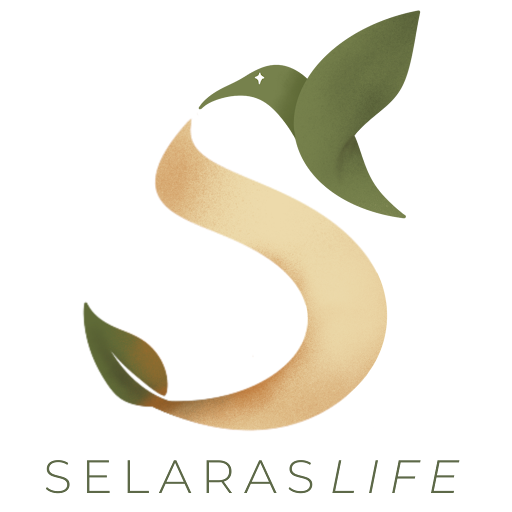
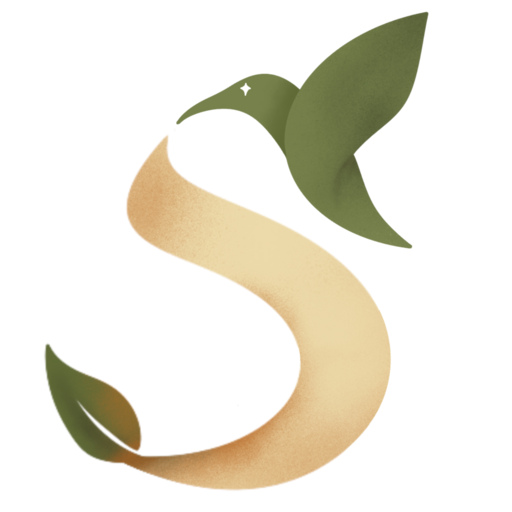
Perbarui header beranda, bar navigasi publik, dan ikon aplikasi
- Header publik: hanya logo Selaras dan tautan Masuk
- Hapus blok "Mulai Perjalanan" dan "Sudah punya akun?" dari bar bawah publik
- Ganti favicon dan ikon PWA dengan favicon baru

diff --git a/src/components/site-header.tsx b/src/components/site-header.tsx
@@ -1,47 +1,28 @@
 import Image from "next/image";
 import Link from "next/link";
-import { Icon } from "./icon";
 
 export function SiteHeader() {
   return (
     <header className="pt-safe fixed top-0 left-1/2 z-50 w-full max-w-[480px] -translate-x-1/2 bg-surface/85 shadow-[0_1px_8px_rgba(92,75,62,0.04)] backdrop-blur-xl">
       <div className="flex h-16 items-center justify-between px-margin">
-        <Link href="/" className="flex items-center gap-2">
-          <span className="flex size-9 items-center justify-center overflow-hidden rounded-full bg-sage-tint">
-            <Image
-              src="/images/logo-avatar.png"
-              alt=""
-              width={32}
-              height={32}
-              className="size-8 rounded-full object-cover"
-              priority
-            />
-          </span>
-          <span className="flex items-center gap-1.5">
-            <span className="t-title-md font-semibold tracking-tight text-on-surface">
-              Selaras Life
-            </span>
-            <span className="t-label-sm rounded-full bg-sage-tint px-2 py-0.5 font-medium text-primary">
-              Tumbuh Selaras
-            </span>
-          </span>
+        <Link href="/" aria-label="Selaras Life" className="flex items-center">
+          <Image
+            src="/images/logo-header.png"
+            alt="Selaras Life"
+            width={720}
+            height={323}
+            sizes="100px"
+            className="h-11 w-auto"
+            priority
+          />
         </Link>
 
-        <div className="flex items-center gap-1">
-          <Link
-            href="/masuk"
-            className="t-title-sm flex min-h-11 items-center justify-center rounded-full px-3.5 text-primary transition-colors hover:text-primary-container"
-          >
-            Masuk
-          </Link>
-          <Link
-            href="/program"
-            aria-label="Jelajahi program"
-            className="flex size-11 items-center justify-center rounded-full text-on-surface-variant transition-colors hover:bg-surface-container-low"
-          >
-            <Icon name="explore" size={22} />
-          </Link>
-        </div>
+        <Link
+          href="/masuk"
+          className="t-title-sm flex min-h-11 items-center justify-center rounded-full px-3.5 text-primary transition-colors hover:text-primary-container"
+        >
+          Masuk
+        </Link>
       </div>
     </header>
   );

diff --git a/src/components/bottom-nav.tsx b/src/components/bottom-nav.tsx
@@ -19,26 +19,7 @@ export function BottomNav() {
       className="pb-safe fixed bottom-0 left-1/2 z-50 w-full max-w-[480px] -translate-x-1/2 bg-surface/90 shadow-[0_-4px_20px_rgba(92,75,62,0.06)] backdrop-blur-xl"
     >
       <div className="p-3">
-        <div className="flex flex-col gap-1.5">
-          <Link
-            href="/daftar"
-            className="t-title-sm flex min-h-11 w-full items-center justify-center gap-2 rounded-full bg-primary px-4 py-2.5 text-center text-on-primary shadow-[0_4px_12px_rgba(78,97,72,0.2)] transition-all hover:bg-primary-container active:scale-[0.99]"
-          >
-            <span>Mulai Perjalanan</span>
-            <Icon name="arrow_forward" size={18} />
-          </Link>
-          <div className="flex items-center justify-center gap-1 py-0.5">
-            <span className="t-body-sm text-text-muted">Sudah punya akun?</span>
-            <Link
-              href="/masuk"
-              className="t-title-sm px-1 py-1 text-primary hover:underline"
-            >
-              Masuk
-            </Link>
-          </div>
-        </div>
-
-        <ul className="mt-1 grid grid-cols-3 gap-1 border-t border-border-subtle/50 pt-2">
+        <ul className="grid grid-cols-3 gap-1">
           {TABS.map((tab) => {
             const active =
               tab.href === "/" ? pathname === "/" : pathname.startsWith(tab.href);

diff --git a/src/app/(public)/layout.tsx b/src/app/(public)/layout.tsx
@@ -6,7 +6,7 @@ export default function PublicLayout({ children }: LayoutProps<"/">) {
   return (
     <PhoneShell>
       <SiteHeader />
-      <main className="flex w-full flex-1 flex-col px-margin pt-16 pb-44">
+      <main className="flex w-full flex-1 flex-col px-margin pt-16 pb-28">
         {children}
       </main>
       <BottomNav />
